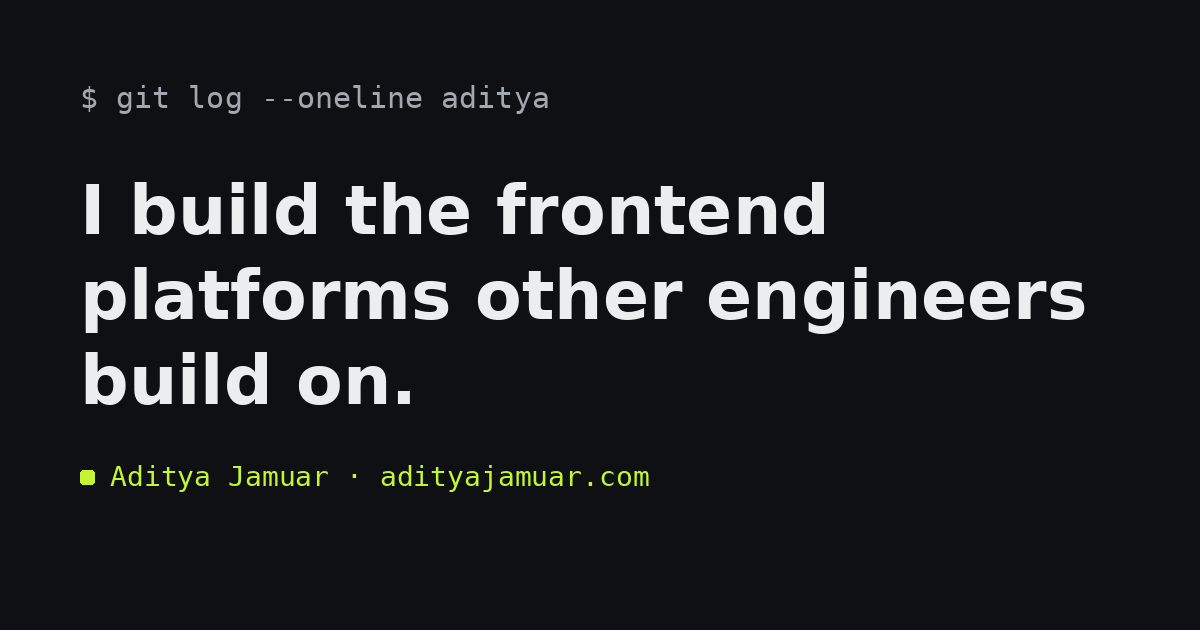
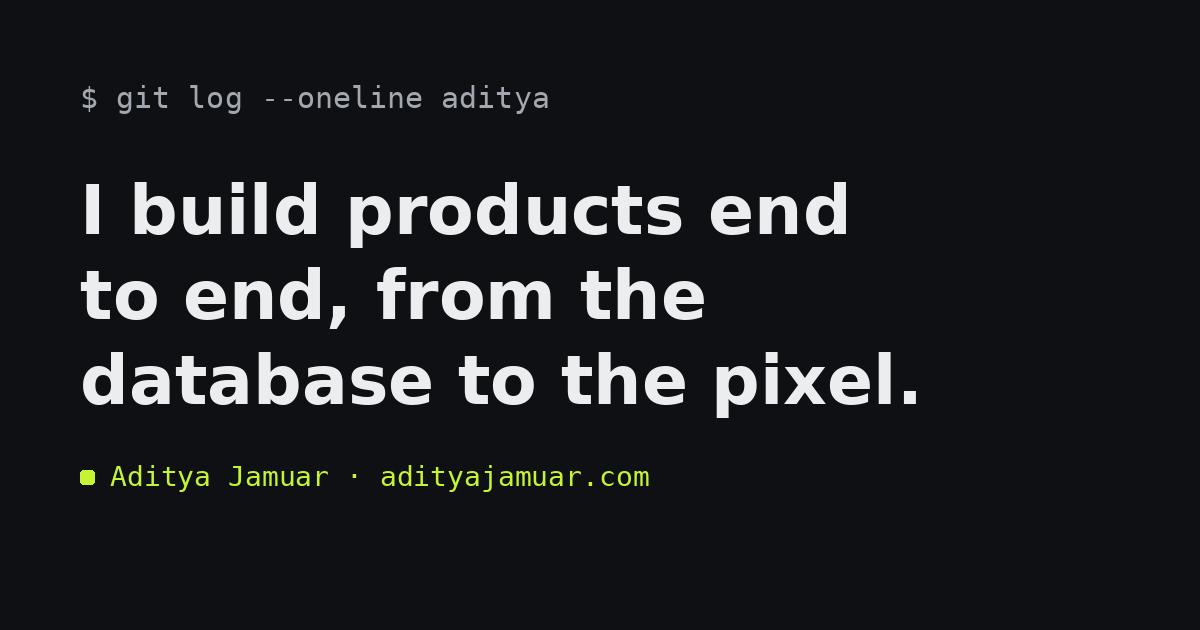
content: reposition as full-stack product engineer

Changed region(s): [[0.0617, 0.4222, 0.925, 0.6635], [0.2775, 0.2714, 0.7092, 0.3921]]

diff --git a/src/data/site.ts b/src/data/site.ts
@@ -1,9 +1,9 @@
 export const site = {
   name: "Aditya Jamuar",
   url: "https://adityajamuar.com",
-  title: "Aditya Jamuar — Frontend platform engineer",
+  title: "Aditya Jamuar — Full-stack product engineer",
   description:
-    "Software Engineer at epilot. Seven years across design systems, product platforms and agent-assisted engineering — from NativeBase to Jira to customer portals for energy utilities.",
+    "Software Engineer at epilot. Seven years building products end to end — APIs, cloud tooling, CI/CD and the interfaces on top — from BuilderX to Jira to customer portals for energy utilities.",
   email: "hi@adityajamuar.com",
   location: "Bengaluru, India",
   links: {
@@ -32,9 +32,15 @@ export const highlights: Highlight[] = [
   },
   {
     org: "epilot",
-    area: "ai",
-    title: "Tests that fix themselves",
-    body: "A self-healing Playwright pipeline on GitHub Actions and Claude Code. Broken tests become fix PRs, reviewed and merged by a human, never auto-merged.",
+    area: "cloud",
+    title: "AWS tooling that cleans up after itself",
+    body: "Tooling that finds and safely removes stale Cognito resources across dev environments, with dry runs and confirmation gates before anything is deleted.",
+  },
+  {
+    org: "geekyants",
+    area: "backend",
+    title: "BuilderX, from FeathersJS to Laravel",
+    body: "Drove the architecture of an early design-to-code platform end to end, including moving its backend from FeathersJS to Laravel — and gave a talk on how we did it.",
   },
   {
     org: "atlassian",
@@ -48,14 +54,7 @@ export const highlights: Highlight[] = [
     org: "atlassian",
     area: "architecture",
     title: "Jira Issue View, re-platformed",
-    body: "Led the Relay migration and layout modernization, moved ownership from Australia to India, and ran UX experiments that lifted engagement 31%.",
-  },
-  {
-    org: "intuit",
-    area: "product",
-    figure: "NPS 90+",
-    title: "Video meetings across the Intuit ecosystem",
-    body: "Resilient frontend architecture and the foundation for multi-participant calls.",
+    body: "Led the Relay migration and layout modernization, moved ownership from Australia to India, and ran experiments that lifted engagement 31%.",
   },
   {
     org: "geekyants",
@@ -90,8 +89,16 @@ export const practices = [
   },
 ] as const;
 
+export const stack = [
+  { group: "Backend & cloud", items: ["Node.js", "TypeScript", "PHP & Laravel", "FeathersJS", "GraphQL", "MySQL", "AWS", "Docker"] },
+  { group: "Delivery", items: ["GitLab CI", "GitHub Actions", "Jenkins", "Playwright", "Jest"] },
+  { group: "Interfaces", items: ["React", "Next.js", "React Native", "Relay"] },
+  { group: "AI tooling", items: ["Claude Code", "Cursor", "Agentic workflows"] },
+];
+
 export const filters = [
   { id: "all", label: "All" },
+  { id: "backend", label: "Backend & cloud" },
   { id: "platform", label: "Platform & DX" },
   { id: "ai", label: "AI" },
   { id: "design", label: "Design systems" },
@@ -115,12 +122,13 @@ export const releases: Release[] = [
     company: "epilot",
     role: "Software Engineer 2",
     tone: "accent",
-    cats: ["platform", "ai"],
+    cats: ["backend", "platform", "ai"],
     items: [
+      "Work across the customer portal stack: the frontend, its API and the CI/CD pipelines that ship them.",
       "Designed review builds for the end-customer portal: any merge request can be loaded into a deployed environment with one URL parameter and immutable build IDs. Wrote the RFC.",
       "Built a self-healing Playwright pipeline on GitHub Actions and Claude Code that opens fix PRs for broken tests and never auto-merges.",
       "Shipped a Git worktree CLI that runs four portal repos side by side with deterministic ports.",
-      "Built tooling to find and safely clean up stale identity resources across dev environments.",
+      "Built AWS tooling to find and safely clean up stale Cognito resources across dev environments, with dry runs and confirmation gates.",
       "Proposed portal versioning with a visual diff and preview model.",
     ],
   },
@@ -148,7 +156,7 @@ export const releases: Release[] = [
     cats: ["platform", "leadership"],
     items: [
       "Delivered a video meeting platform across the Intuit ecosystem with NPS above 90.",
-      "Designed a resilient frontend architecture for high availability and built the foundation for multi-participant meetings.",
+      "Designed a resilient, highly available architecture and built the foundation for multi-participant meetings.",
       "Mentored new hires and defined coding standards. CX3 Technical Excellence Award, FY22 Q3.",
     ],
   },
@@ -158,10 +166,10 @@ export const releases: Release[] = [
     company: "GeekyAnts",
     role: "Intern → Senior Software Engineer",
     tone: "accent2",
-    cats: ["design", "leadership"],
+    cats: ["backend", "design", "leadership"],
     items: [
+      "Drove BuilderX's architecture end to end: Next.js frontend, Laravel and FeathersJS services, and Dockerized deploys. Led its backend move from FeathersJS to Laravel.",
       "Co-created NativeBase v3, one of the first cross-platform React Native design systems: 20k+ GitHub stars, 70k+ weekly downloads.",
-      "Drove architecture for BuilderX, an early design-to-code platform.",
       "Built and led an R&D team shipping developer productivity tools.",
     ],
   },
